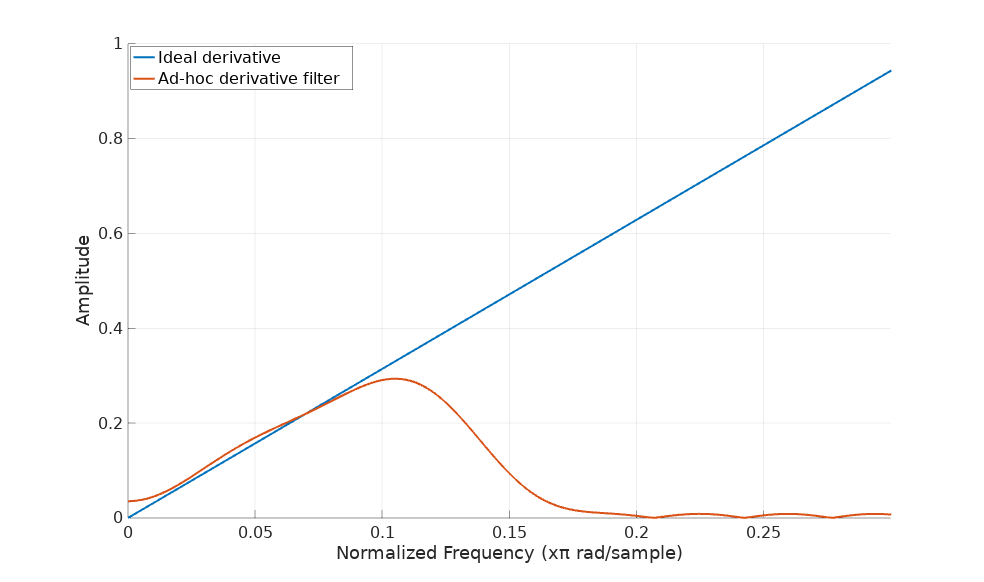
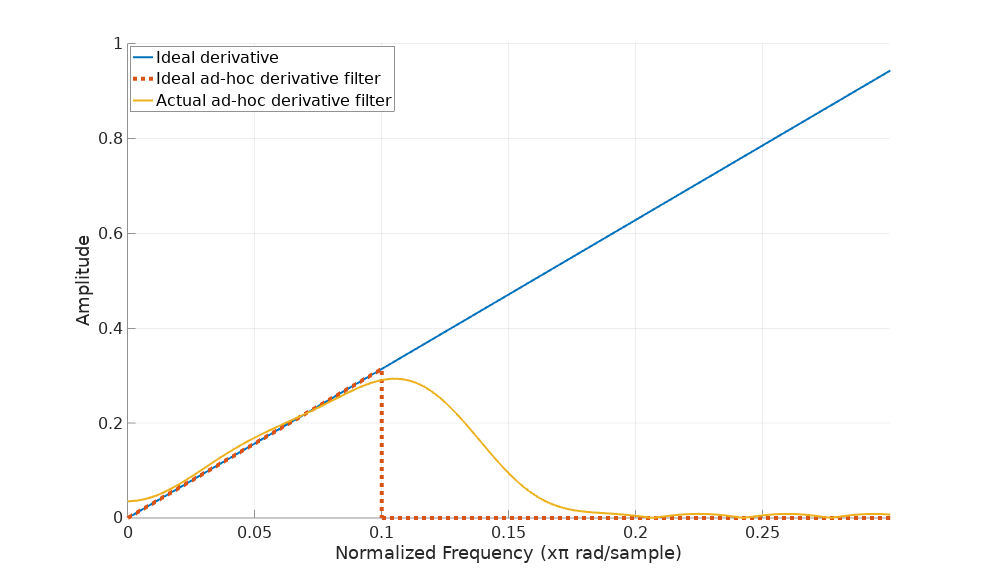
Minor edits. Updated a figure for clarity.

diff --git a/notes/Derivative/custom.m b/notes/Derivative/custom.m
@@ -12,7 +12,6 @@ SSL=zeros(1, numel(KL));
 for ii=(0:N-1)
   SS=SS+exp(j*2*pi*K*(-f1+df*ii)/fs);
   SSL=SSL+exp(j*2*pi*KL*(-f1+df*ii)/fs);
-  ff = ff+df;
 end
 
 figure(1);
@@ -77,9 +76,7 @@ legend("Original signal", "Central-difference", "location", "northwest");
 
 figure(61);
 clf;
-plot(real(DSS));
-h = findobj(gca, 'type', 'line');
-set(h, 'LineWidth', 4)
+plot(real(DSS), 'LineWidth', 4);
 hold on;
 plot(real(DWSS));
 grid on;
@@ -104,13 +101,14 @@ B=B.*hamming(numel(B));
 [H W]=freqz(B);
 hold on;
 plot([0 1], [0 pi]);
+plot([0 0.1 0.1000001 1], [0 0.1*pi 0 0], ":",'LineWidth', 4);
 plot(W/pi, abs(H));
 grid on;
 xlim([0,0.3]);
 ylim([0,1]);
 ylabel('Amplitude');
 xlabel('Normalized Frequency (x\pi rad/sample)');
-legend("Ideal derivative", "Ad-hoc derivative filter", "location", "northwest");
+legend("Ideal derivative", "Ideal ad-hoc derivative filter", "Actual ad-hoc derivative filter", "location", "northwest");
 
 figure(9);
 plot(B);
